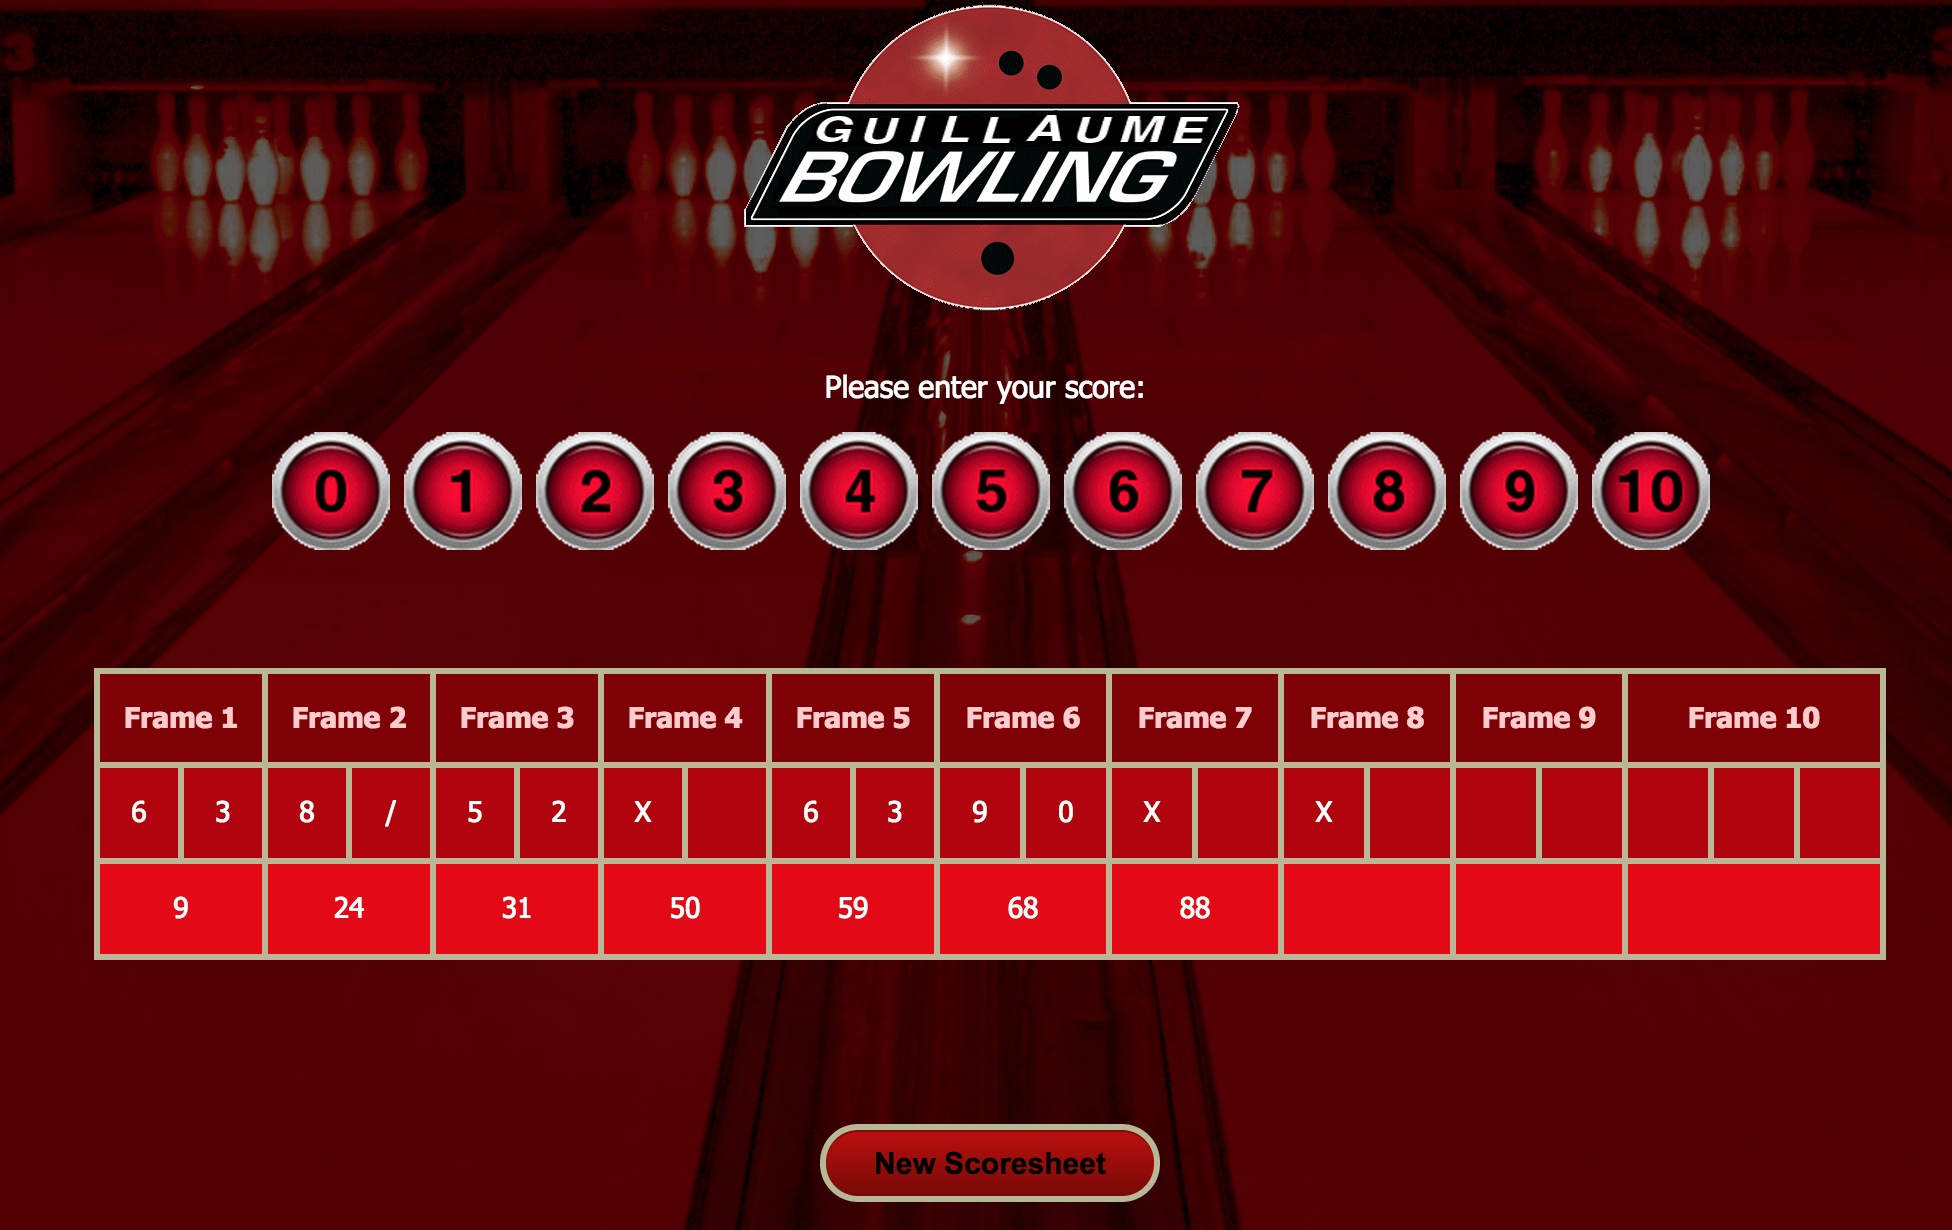
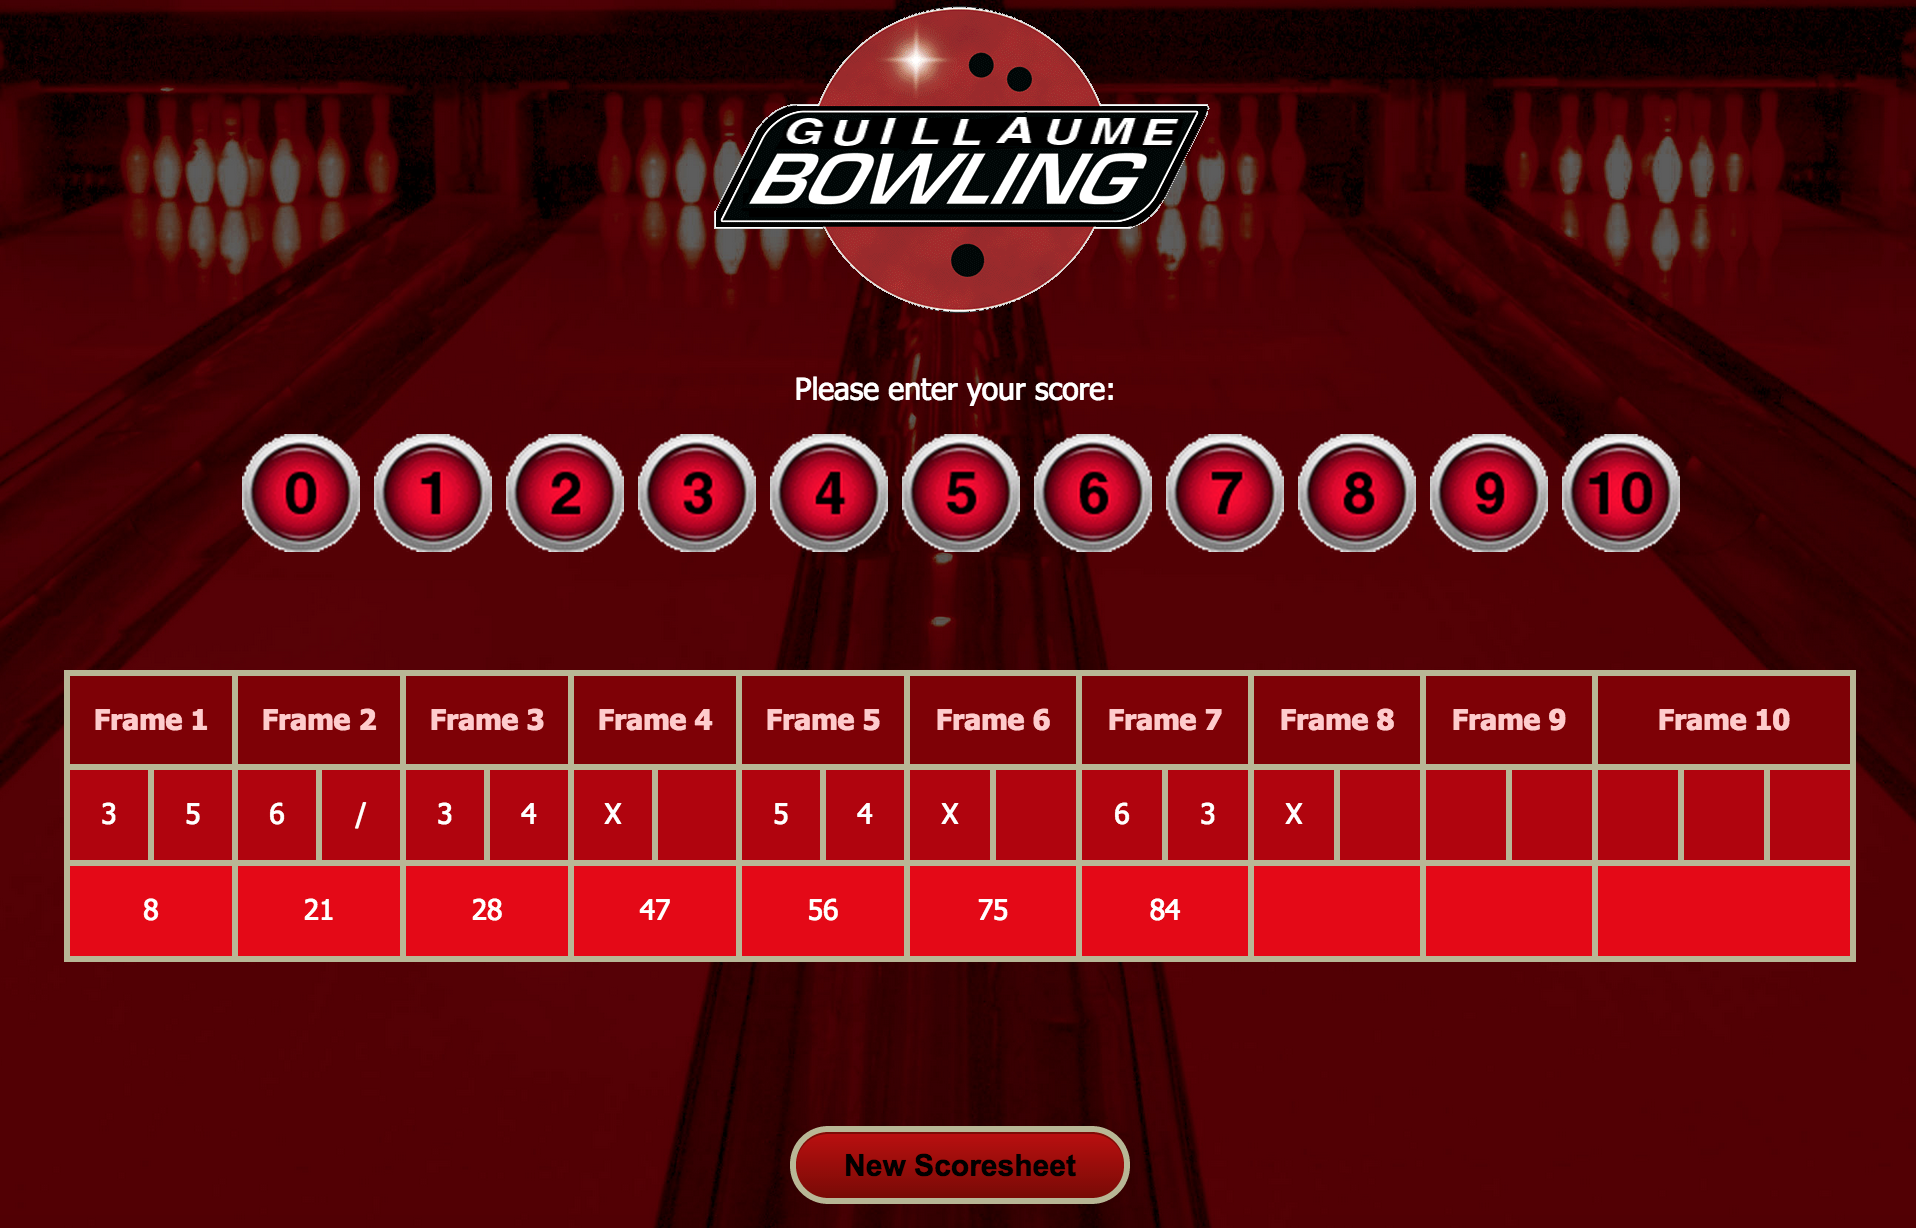
solved some exceptions

diff --git a/src/Interface.js b/src/Interface.js
@@ -34,57 +34,57 @@ $(document).ready(function() {
     };
   };
 
-  $('#hit0').click(function(){
+  $('#hit0').click(function() {
     pins = 0;
     updateScore();
   });
 
-  $('#hit1').click(function(){
+  $('#hit1').click(function() {
     pins = 1;
     updateScore();
   });
 
-  $('#hit2').click(function(){
+  $('#hit2').click(function() {
     pins = 2;
     updateScore();
   });
 
-  $('#hit3').click(function(){
+  $('#hit3').click(function() {
     pins = 3;
     updateScore();
   });
 
-  $('#hit4').click(function(){
+  $('#hit4').click(function() {
     pins = 4;
     updateScore();
   });
 
-  $('#hit5').click(function(){
+  $('#hit5').click(function() {
     pins = 5;
     updateScore();
   });
 
-  $('#hit6').click(function(){
+  $('#hit6').click(function() {
     pins = 6;
     updateScore();
   });
 
-  $('#hit7').click(function(){
+  $('#hit7').click(function() {
     pins = 7;
     updateScore();
   });
 
-  $('#hit8').click(function(){
+  $('#hit8').click(function() {
     pins = 8;
     updateScore();
   });
 
-  $('#hit9').click(function(){
+  $('#hit9').click(function() {
     pins = 9;
     updateScore();
   });
 
-  $('#hit10').click(function(){
+  $('#hit10').click(function() {
     if (game.frameOver == false || game.frameNumber == 10) {
       strikeHappened();
     } else {
@@ -93,12 +93,20 @@ $(document).ready(function() {
     };
   });
 
-  function strikeHappened(){
+  function strikeHappened() {
     game.roll(10);
     writeInScores();
-    $('#box'+String(increment)).text('X');
+    spareOnFrame10();
     if ((game.frameNumber != 10) || increment < 18) { increment++ };
     increment++;
+  };
+
+  function spareOnFrame10() {
+    if (increment === 20 && ($('#box19').text()) == 0) {
+      $('#box20').text('/');
+    } else {
+      $('#box'+String(increment)).text('X');
+    };
   };
 
   $('#newScoreSheet').click(function(){
@@ -113,6 +121,8 @@ $(document).ready(function() {
     game.frame10rolls = []
     game.frameScore = [];
     game.score = 0;
+    game.frameOn10 = -1;
+    game.frameOn0 = -2;
     increment = 1;
     SparesWritter = 10;
   };

diff --git a/src/Game.js b/src/Game.js
@@ -5,6 +5,8 @@ function Game() {
   this.frame10rolls = [];
   this.frameScore = [];
   this.score = 0;
+  this.frameOn10 = -1;
+  this.frameOn0 = -2;
 }
 
 Game.prototype.roll = function(pins){
@@ -23,7 +25,13 @@ Game.prototype.rollValidation = function(pins) {
 Game.prototype.validRoll = function(pins) {
   if (this.frameOver === false) { this.leftPins = 10 - pins; } else { this.leftPins = 10; }
   this.rolls.push(pins);
+  this.spareExceptions(pins);
   if (this.frameOver === false && this.frameNumber < 10 ) { this.caclulateOnBall1(); }
+};
+
+Game.prototype.spareExceptions = function(pins){
+  if (pins === 0) { this.frameOn0 = this.frameNumber; }
+  if (pins === 10 && this.frameOver == true) { this.frameOn10 = this.frameNumber; }
 };
 
 Game.prototype.caclulateOnBall1 = function(){
@@ -67,9 +75,10 @@ Game.prototype.notA10SumCalculator = function() {
 };
 
 Game.prototype.spareCalculator = function(){
-  if (this.rolls[this.rolls.length - 2] + this.rolls[this.rolls.length - 3] === 10 && this.frame10rolls.length < 2) {
+  if (((this.rolls[this.rolls.length - 2] + this.rolls[this.rolls.length - 3] === 10 && this.rolls[this.rolls.length - 3] !== 10 && this.rolls[this.rolls.length - 2] !== 10) || (this.frameOn10 === this.frameOn0)) && this.frame10rolls.length < 2) {
     this.score = this.score + 10 + this.rolls[this.rolls.length - 1];
     this.frameScore.push(this.score);
+    this.frameOn10 = -1;
   }
 };
 
